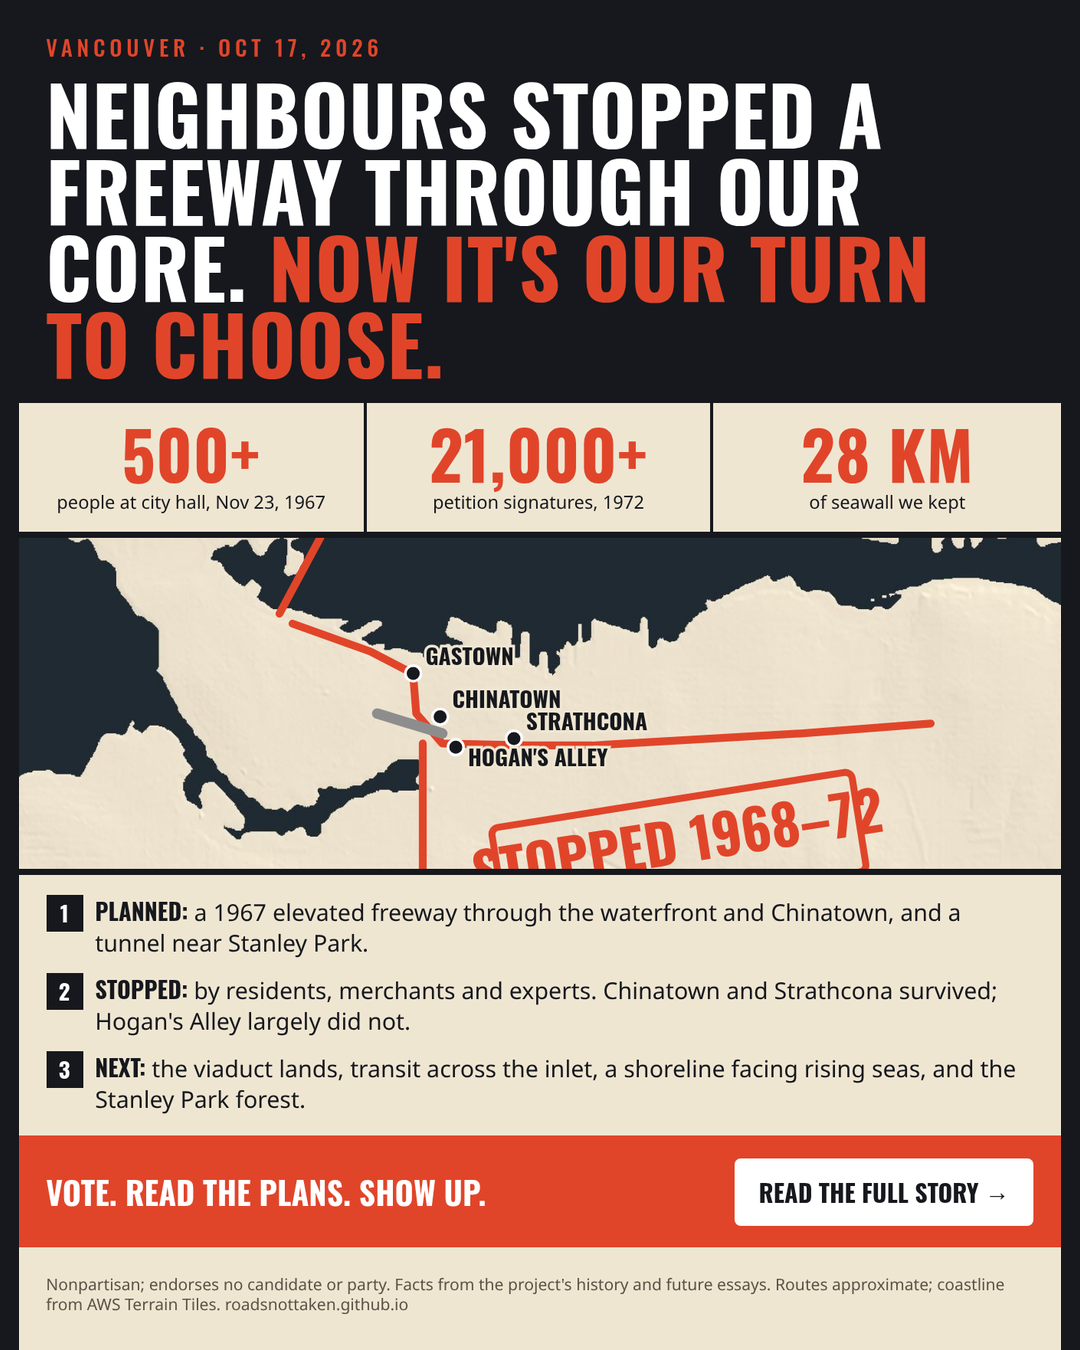
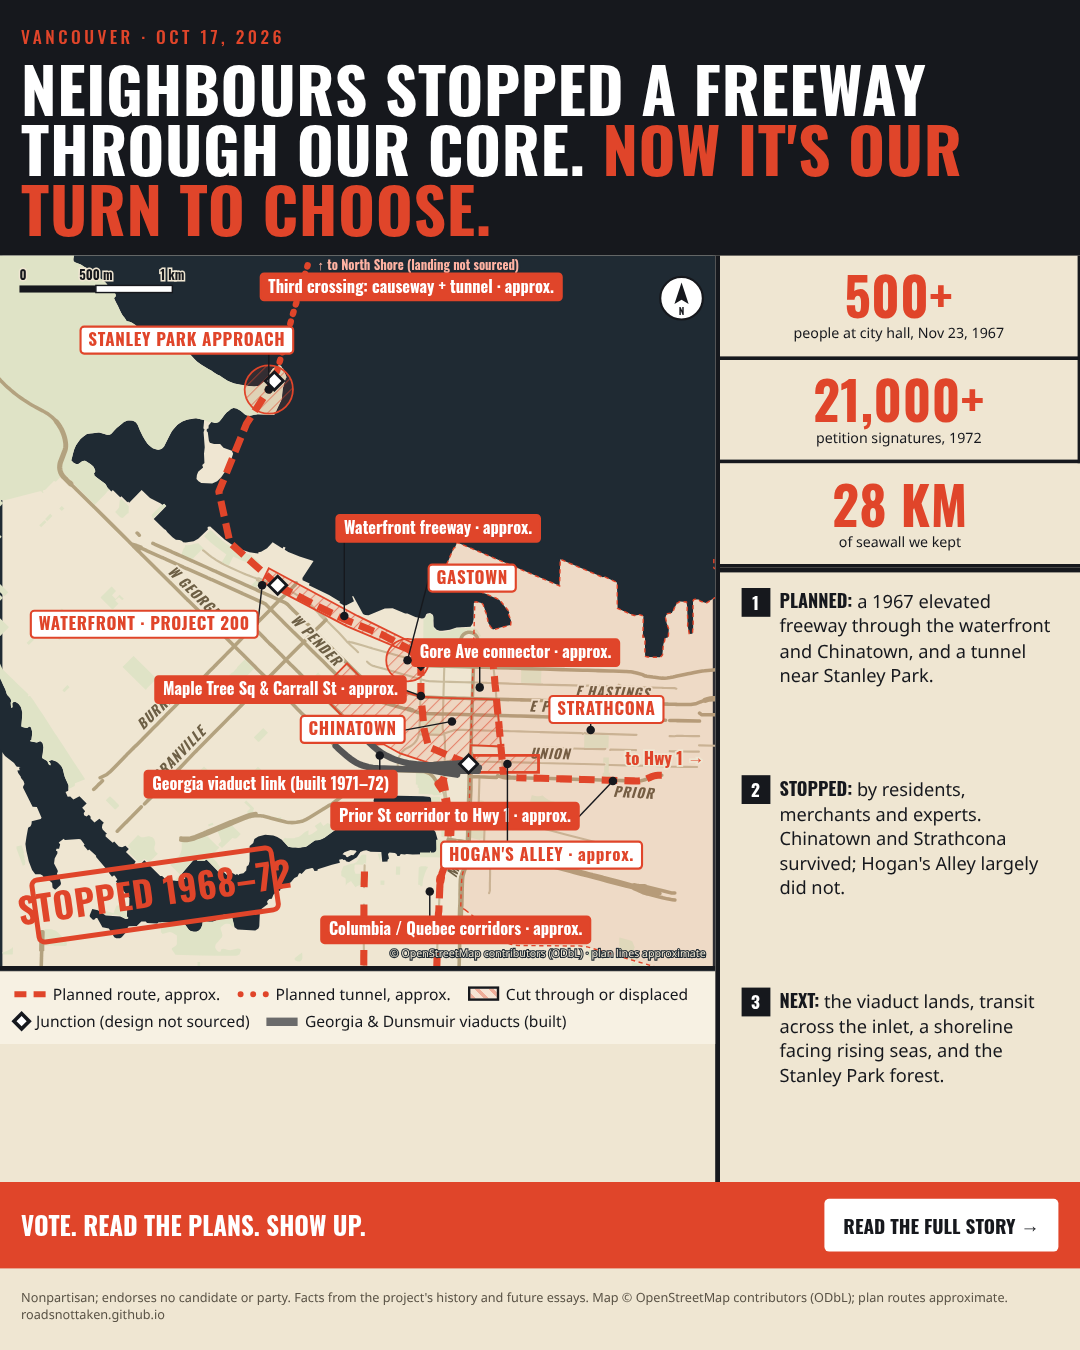
Alt C comparison map

diff --git a/alt-c/index.html b/alt-c/index.html
@@ -43,18 +43,22 @@ body{background:#2a2c31}
 .fine{font-size:.66rem;color:#5a5346;padding:.5rem 1.1rem .7rem;line-height:1.3}
 body.export .poster{width:680px;margin:0;box-shadow:none;min-height:0}
 
-</style></head><body>
+.map .cmap{border:0;border-bottom:4px solid var(--ink);max-width:none}
+body.export .poster{width:900px;display:grid;grid-template-columns:600px 1fr;grid-template-areas:"top top" "map nums" "map bul" "cta cta" "fine fine";grid-template-rows:auto auto 1fr auto auto;min-height:1125px}
+body.export .top{grid-area:top}body.export .map{grid-area:map;border-right:4px solid var(--ink)}body.export .nums{grid-area:nums;display:flex;flex-direction:column}
+body.export .nums>div{border-left:0!important;border-bottom:3px solid var(--ink)}body.export .bul{grid-area:bul}body.export .cta{grid-area:cta}body.export .fine{grid-area:fine}
+body.export .cm-bar,body.export .cm-note,body.export .cm-key{display:none}body.export .map .cmap{border-bottom:0}</style><link rel="stylesheet" href="../assets/cmap.css"></head><body>
 <main class="poster" id="poster">
 <div class="top"><span class="k">Vancouver · Oct 17, 2026</span><h1>Neighbours stopped a freeway through our core. <em>Now it's our turn to choose.</em></h1></div>
 <div class="nums"><div><span class="num">500+</span><span>people at city hall, Nov 23, 1967</span></div><div><span class="num">21,000+</span><span>petition signatures, 1972</span></div><div><span class="num">28 km</span><span>of seawall we kept</span></div></div>
-<div class="map"><svg class="route-svg" viewBox="0 0 1200 943" role="img" aria-labelledby="rt"><title id="rt">Approximate routes of the unbuilt 1960s freeway plan, drawn over a real coastline</title><image href="../assets/coast-downtown.jpg" width="1200" height="943"/><polyline class="rt-plan" pathLength="1" points="315.0,379.7 405.0,411.9 453.8,437.2 457.5,483.2 487.5,517.7 585.0,520.0 660.0,520.0 900.0,506.2 1050.0,494.7"><title>1967 waterfront freeway (approximate, unbuilt)</title></polyline><polyline class="rt-plan" pathLength="1" points="465.0,517.7 465.0,713.1 465.0,885.5"><title>Columbia/Quebec corridors (approximate, unbuilt)</title></polyline><polyline class="rt-plan" pathLength="1" points="300.0,368.2 352.5,270.4 375.0,184.1 412.5,80.6"><title>Third crossing of Burrard Inlet (approximate, unbuilt)</title></polyline><polyline class="rt-built" pathLength="1" points="412.5,483.2 487.5,506.2"><title>Georgia & Dunsmuir viaducts (built)</title></polyline><g class="rt-pt"><circle cx="485" cy="487" r="9"/><text x="499" y="477">Chinatown</text></g><g class="rt-pt"><circle cx="570" cy="512" r="9"/><text x="584" y="502">Strathcona</text></g><g class="rt-pt"><circle cx="503" cy="522" r="9"/><text x="517" y="544">Hogan's Alley</text></g><g class="rt-pt"><circle cx="173" cy="230" r="9"/><text x="187" y="220">Stanley Park</text></g><g class="rt-pt"><circle cx="454" cy="437" r="9"/><text x="468" y="427">Gastown</text></g><g class="rt-stamp" transform="translate(760 640) rotate(-9)"><rect x="-210" y="-58" width="420" height="116" rx="8"/><text x="0" y="16" text-anchor="middle">STOPPED 1968–72</text></g></svg></div>
+<div class="map"><div class="cmap" data-src="../assets/cmap.svg" data-mode="planned"></div></div>
 <ul class="bul">
 <li data-n="1"><b>Planned:</b> a 1967 elevated freeway through the waterfront and Chinatown, and a tunnel near Stanley Park.</li>
 <li data-n="2"><b>Stopped:</b> by residents, merchants and experts. Chinatown and Strathcona survived; Hogan's Alley largely did not.</li>
 <li data-n="3"><b>Next:</b> the viaduct lands, transit across the inlet, a shoreline facing rising seas, and the Stanley Park forest.</li>
 </ul>
 <div class="cta"><strong>Vote. Read the plans. Show up.</strong><a href="/">Read the full story →</a></div>
-<p class="fine">Nonpartisan; endorses no candidate or party. Facts from the project's history and future essays. Routes approximate; coastline from AWS Terrain Tiles. roadsnottaken.github.io</p>
+<p class="fine">Nonpartisan; endorses no candidate or party. Facts from the project's history and future essays. Map © OpenStreetMap contributors (ODbL); plan routes approximate. roadsnottaken.github.io</p>
 </main>
-<script>if(new URLSearchParams(location.search).get('export')){document.body.classList.add('export');var P=document.getElementById('poster'),sv=P.querySelector('.map svg');sv.setAttribute('preserveAspectRatio','xMidYMid slice');sv.style.height='300px';var other=P.offsetHeight-300;sv.style.height=Math.max(220,850-other)+'px';}</script>
-</body></html>
+<script>if(new URLSearchParams(location.search).get('export'))document.body.classList.add('export');</script>
+<script src="../assets/cmap.js"></script></body></html>
